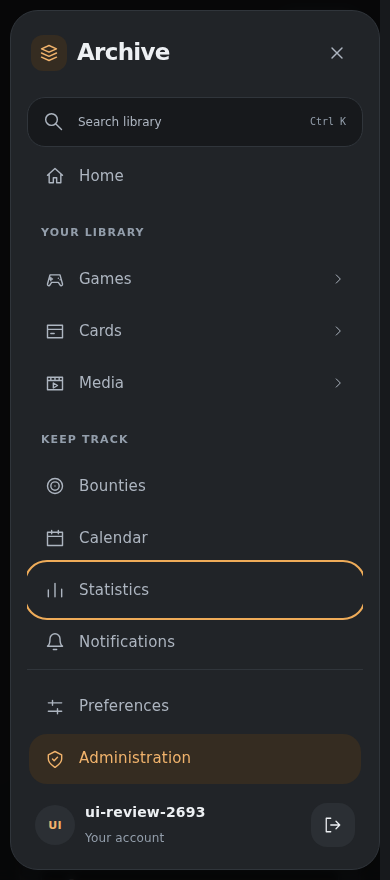
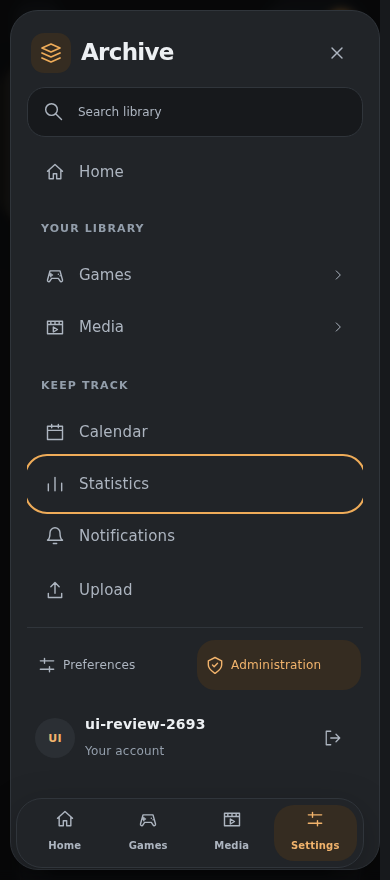
fix: keep native settings current and usable on phones

diff --git a/src/frontend/src/tests/pluginNative.test.ts b/src/frontend/src/tests/pluginNative.test.ts
@@ -170,6 +170,42 @@ describe("native plugin lifecycle", () => {
     await reconcileNativePlugins([]);
     expect(reload).toHaveBeenCalledOnce();
   });
+  it("loads changed native assets when a package is reapplied at the same version", async () => {
+    const cleanup = vi.fn();
+    const importer = vi.fn(async (url: string) => {
+      expect(url).toContain("/api/plugins/");
+      return {
+        activate(context: NativePluginContext) {
+          expect(context.version).toBe(source.version);
+          context.registerComponent("dashboard", { render: () => null });
+          context.onCleanup(cleanup);
+        },
+      };
+    });
+    const first = { ...source, digest: "a".repeat(64) };
+    const replacement = { ...source, digest: "b".repeat(64) };
+    await reconcileNativePlugins([first], importer);
+    const component = nativePluginComponent(source.pluginId, "dashboard");
+    await reconcileNativePlugins([first], importer);
+    expect(importer).toHaveBeenCalledTimes(1);
+    await reconcileNativePlugins([replacement], importer);
+    expect(importer).toHaveBeenCalledTimes(2);
+    expect(importer.mock.calls[0][0]).toContain(`?v=${first.digest}`);
+    expect(importer.mock.calls[1][0]).toContain(`?v=${replacement.digest}`);
+    expect(cleanup).toHaveBeenCalledOnce();
+    expect(nativePluginComponent(source.pluginId, "dashboard")).not.toBe(
+      component,
+    );
+  });
+  it("restarts the production realm after a same-version package replacement", async () => {
+    const reload = vi.fn();
+    vi.stubGlobal("window", { location: { reload } });
+    await reconcileNativePlugins([{ ...source, digest: "a".repeat(64) }]);
+    await reconcileNativePlugins([{ ...source, digest: "a".repeat(64) }]);
+    expect(reload).not.toHaveBeenCalled();
+    await reconcileNativePlugins([{ ...source, digest: "b".repeat(64) }]);
+    expect(reload).toHaveBeenCalledOnce();
+  });
   it("cancels an import when the plugin is removed before activation", async () => {
     resetNativePluginsForTests();
     const activate = vi.fn();

diff --git a/src/frontend/src/state/pluginNative.ts b/src/frontend/src/state/pluginNative.ts
@@ -30,6 +30,7 @@ import { registerPluginShortcut, type NativeShortcut } from "./shortcuts";
 export interface NativeFrontendSource {
   pluginId: string;
   version: string;
+  digest?: string;
   entry: string;
   styles: string[];
   pageIds: string[];
@@ -170,6 +171,7 @@ async function activate(
 ): Promise<void> {
   const signature = JSON.stringify([
     source.version,
+    source.digest ?? "",
     source.entry,
     source.styles,
     [...source.pageIds].sort(),
@@ -215,13 +217,13 @@ async function activate(
         const link = document.createElement("link");
         link.rel = "stylesheet";
         link.dataset.pluginId = source.pluginId;
-        link.href = assetUrl(source.pluginId, style);
+        link.href = `${assetUrl(source.pluginId, style)}?v=${encodeURIComponent(source.digest || source.version)}`;
         document.head.appendChild(link);
         cleanups.push(() => link.remove());
       }
     }
     const module = await importer(
-      `${assetUrl(source.pluginId, source.entry)}?v=${encodeURIComponent(source.version)}`,
+      `${assetUrl(source.pluginId, source.entry)}?v=${encodeURIComponent(source.digest || source.version)}`,
     );
     if (disposed) return;
     const entry = module.activate ?? module.default;

diff --git a/src/frontend/src/views/Settings.vue b/src/frontend/src/views/Settings.vue
@@ -420,7 +420,7 @@ function backToArea() {
       <PageHeader
         :title="sectionTitle"
         :eyebrow="selectedSection ? areaNames[area] : undefined"
-        :description="areaDescriptions[area]"
+        :description="selectedSection ? undefined : areaDescriptions[area]"
       >
         <template #actions><SaveStatus /></template>
       </PageHeader>
@@ -693,15 +693,31 @@ function backToArea() {
 }
 @media (max-width: 760px) {
   .settings-page {
-    padding-top: 80px;
+    padding-top: 24px;
   }
   .settings-areas {
-    margin-bottom: 24px;
+    flex-wrap: nowrap;
+    margin-bottom: 16px;
     gap: 4px;
-    padding-bottom: 16px;
+    padding-bottom: 12px;
   }
   .settings-areas button {
-    padding: 10px 13px;
+    flex: 1;
+    min-width: 0;
+    padding: 8px 6px;
+    font-size: 12px;
+  }
+  .settings-page :deep(.page-header) {
+    margin-bottom: 16px;
+  }
+  .server-scope {
+    padding: 10px 12px;
+    margin-bottom: 16px;
+    font-size: 12px;
+    line-height: 1.5;
+  }
+  .server-scope svg {
+    flex-shrink: 0;
   }
   .settings-landing {
     grid-template-columns: minmax(0, 1fr);

diff --git a/src/frontend/src/state/pluginExtensions.ts b/src/frontend/src/state/pluginExtensions.ts
@@ -646,6 +646,7 @@ async function loadPluginExtensions(): Promise<void> {
             {
               pluginId: plugin.plugin_id,
               version: plugin.version,
+              digest: plugin.digest,
               entry: nativeFrontend.entry,
               styles: nativeFrontend.styles,
               pageIds: document.pages.map((page) => page.id),

diff --git a/src/frontend/src/components/ShortcutConflictNotice.vue b/src/frontend/src/components/ShortcutConflictNotice.vue
@@ -95,4 +95,14 @@ p {
 small {
   color: var(--ui-dim);
 }
+@media (max-width: 760px) {
+  .shortcut-notice {
+    top: calc(env(safe-area-inset-top, 0px) + 64px);
+    max-height: calc(
+      100dvh - env(safe-area-inset-top, 0px) -
+        env(safe-area-inset-bottom, 0px) - 156px
+    );
+    overflow-y: auto;
+  }
+}
 </style>

diff --git a/wiki/docs/development/native-plugin-review.md b/wiki/docs/development/native-plugin-review.md
@@ -59,3 +59,49 @@ a newly downloaded distribution artifact.
 
 These checks cover the recorded milestones. Final production and remaining
 plugin integration checks are tracked separately.
+
+## Authenticated Session Manager and native replacement
+
+The maintained Session Manager now contributes direct **Sessions** and **Session
+Manager** entries to Account and Server management. Its controls follow host
+theme radii and the administrator user selector has an explicit accessible name.
+Phone Settings use the space below the existing header, keep the three areas on
+one row, and omit repeated area descriptions inside a selected section. A
+shortcut-conflict notice stays below the phone header so navigation remains
+available.
+
+The [Session Manager report](../assets/ui-redevelopment/session-native-conformance.json)
+records real authenticated owner/admin interactions at 320, 390, 1440 and 1920
+pixels. Owner-only reads, clear administrator denial, foreign-session rejection,
+filtering, compact tables, cancellation, targeted administrator revocation and
+owner single/all revocation pass. Revoked browsers return to login without a
+manual refresh; unrelated accounts remain signed in. The captures use a locally
+built unsigned working-tree preview, identified by its archive SHA-256, rather
+than a newly downloaded CI artifact.
+
+![Loaded owner sessions on a phone](../assets/ui-redevelopment/session-owner-loaded-390-dark.png)
+
+![Loaded administrator sessions on desktop](../assets/ui-redevelopment/session-admin-loaded-1440-light.png)
+
+![Administrator sessions at 320 pixels](../assets/ui-redevelopment/session-admin-loaded-320-light.png)
+
+Runtime gateway failures retain bounded, redacted status/detail through the host
+action endpoint instead of becoming an unexplained 500. Background extension
+refreshes share an in-flight load, preventing repeated polling from discarding
+slow but successful contribution discovery. Account changes still invalidate
+the previous account's request; explicit lifecycle mutations start a fresh load.
+
+The [same-version native replacement report](../assets/ui-redevelopment/native-same-version-conformance.json)
+starts with the downloaded Session Manager CI package, then applies the reviewed
+local preview at the same version. An already-open browser reloads its native
+realm automatically and requests the replacement JavaScript and CSS using the
+installed payload digest. The new accessible selector and host theme radius are
+active, and installation identity is retained. This checks the update behavior;
+the replacement package is a local preview.
+
+The refreshed core Settings matrix passes all 192 width/theme/role cases,
+uniform titles, member administration denial, phone modal focus and overflow
+checks. Frontend validation passes all 235 tests, forced type checking, lint,
+formatting and the production build. The independently run backend and runtime
+suites pass 1,084 tests with two existing skips, and 125 tests respectively;
+configured backend Pylint remains 9.11/10.

diff --git a/wiki/docs/development/ui-redevelopment.md b/wiki/docs/development/ui-redevelopment.md
@@ -564,9 +564,10 @@ production build and the 2,000-line source guard.
 This is a progress checkpoint. The coordinated PRs remain in progress until the
 following work is verified and their current heads pass CI:
 
-- Exercise the maintained Session Manager with real owner/admin sessions and
-  revocation, and recheck all maintained plugins using the latest downloaded CI
-  packages. Preserve limited legacy compatibility and the v1.1 boundary.
+- Recheck all maintained plugins using the latest downloaded CI packages.
+  Authenticated Session Manager owner/admin revocation and native replacement
+  now pass; see the [native review](native-plugin-review.md). Preserve limited
+  legacy compatibility and the v1.1 boundary.
 - Finish Collector's Archive checks using actual Cards, Sets and Bounties data,
   including creation, updates, search, home contributions and permissions.
 - Check contribution cleanup after permission withdrawal, plugin disable and

diff --git a/wiki/docs/development/plugin-ui.md b/wiki/docs/development/plugin-ui.md
@@ -141,6 +141,13 @@ instance, even if both pages share a component. Use Vue's unmount lifecycle to
 clean up page-local resources. Context updates within the same page retain the
 instance, and page navigation does not reactivate the bundle.
 
+Background mounts and polling share an in-progress contribution refresh, so a
+slow initial load can finish instead of being invalidated by every poll. Manager
+mutations request fresh data; account changes invalidate pending responses.
+Native JavaScript and stylesheet revisions include the verified package digest.
+Replacing a package at the same version therefore refreshes its assets and
+browser realm, while an unchanged package keeps its mounted components.
+
 Native CSS is loaded only from the separately permissioned native asset endpoint.
 Named palettes use the independent low-risk `frontend.themes` contract. Native
 and opaque iframe components follow the public cosmetic appearance snapshot;
